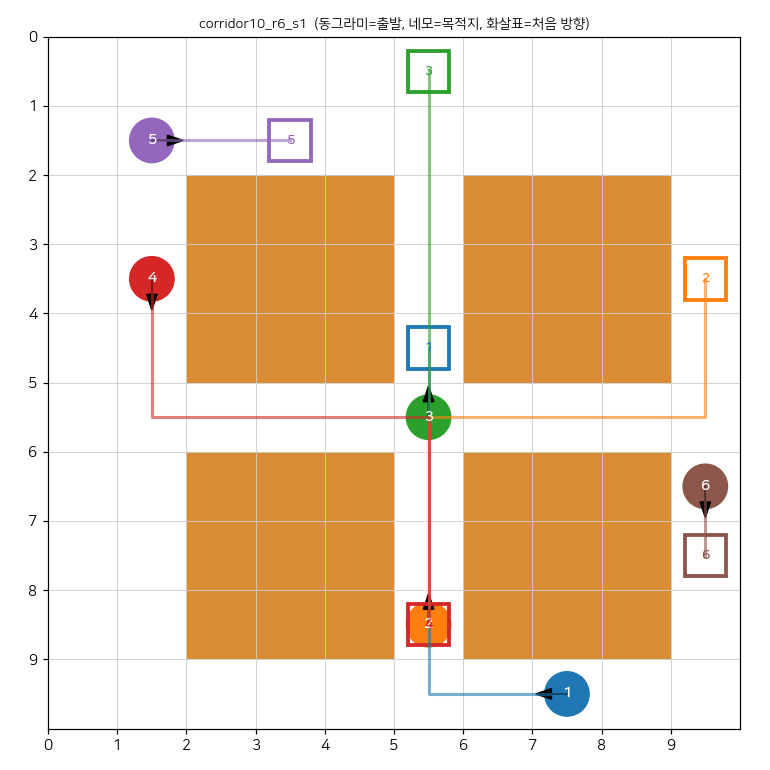
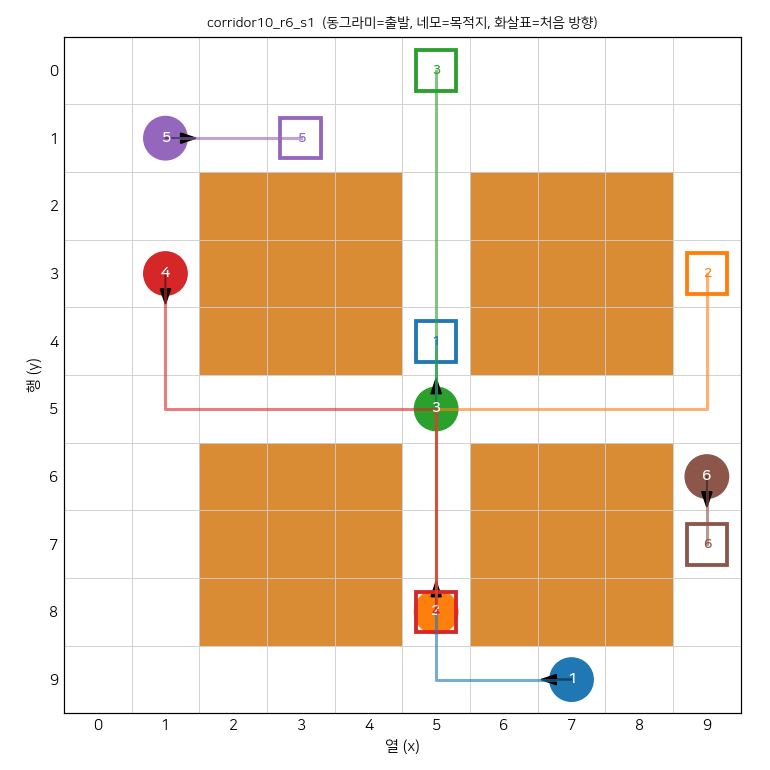
칸 위치 표기를 행·열로 통일(사용자 요청): CLAUDE.md 규칙, 31장·README "N번 줄" → "N행", 점검 출력 "9행 7열", 그림 축에 행·열·칸 가운데 번호

diff --git a/ros2/mapf_gazebo/mapf_gazebo/draw_scenario.py b/ros2/mapf_gazebo/mapf_gazebo/draw_scenario.py
@@ -1,4 +1,4 @@
-"""시나리오를 2D GUI와 같은 방향(0번 줄이 위)으로 그린다 — Gazebo 화면(위에서 본 모습)과 눈으로 맞대 보는 용도 (7-1).
+"""시나리오를 2D GUI와 같은 방향(0행이 위)으로 그린다 — Gazebo 화면(위에서 본 모습)과 눈으로 맞대 보는 용도 (7-1).
 
     ros2 run mapf_gazebo draw_scenario corridor10_r6_s1 --out corridor10_r6_s1.png
 
@@ -39,10 +39,13 @@ def draw(sc, out):
         ax.add_patch(Rectangle((gx - 0.3, gy - 0.3), 0.6, 0.6, fill=False, edgecolor=c, lw=2.5))
         ax.text(gx, gy, str(r['id'] + 1), ha='center', va='center', color=c, fontsize=9, weight='bold')
     ax.set_xlim(0, w)
-    ax.set_ylim(h, 0)  # 0번 줄이 위 (2D GUI와 같음)
+    ax.set_ylim(h, 0)  # 0행이 위 (2D GUI와 같음)
     ax.set_aspect('equal')
-    ax.set_xticks(range(w))
-    ax.set_yticks(range(h))
+    ax.set_xticks([i + 0.5 for i in range(w)], [str(i) for i in range(w)])  # 번호는 칸 가운데에
+    ax.set_yticks([i + 0.5 for i in range(h)], [str(i) for i in range(h)])
+    ax.tick_params(length=0)
+    ax.set_xlabel('열 (x)')
+    ax.set_ylabel('행 (y)')
     ax.set_title(f"{sc['name']}  (동그라미=출발, 네모=목적지, 화살표=처음 방향)", fontsize=9)
     fig.tight_layout()
     fig.savefig(out, dpi=110)

diff --git a/ros2/mapf_gazebo/mapf_gazebo/grid_to_world.py b/ros2/mapf_gazebo/mapf_gazebo/grid_to_world.py
@@ -35,7 +35,7 @@ def world_xml(scenario, flip_y=True):
                     for i, b in enumerate(wall_boxes(len(rows[0]), len(rows), cell)))
     shelf_model = (f'<model name="shelves"><static>true</static><link name="link">{shelves}</link></model>'
                    if shelves else '')
-    # 화면(gzclient)을 처음부터 "위에서 내려다보고, 화면 위 = +y(북), 오른쪽 = +x"로 연다 → 2D 그림(0번 줄이 위)과 같은 모양.
+    # 화면(gzclient)을 처음부터 "위에서 내려다보고, 화면 위 = +y(북), 오른쪽 = +x"로 연다 → 2D 그림(0행이 위)과 같은 모양.
     # 이게 없으면 Gazebo 기본 카메라 방향이라 지도가 90° 돌아가 보인다(2026-11-26 사용자 확인).
     # 자세: yaw 90°(카메라 앞 = +y) 뒤 pitch 90° 가까이(아래를 봄) → 화면 위 = +y. pitch를 정확히 90°로 두면 orbit 조작이 튀어서 살짝 덜 숙인다.
     wm, hm = len(rows[0]) * cell, len(rows) * cell

diff --git a/ros2/mapf_gazebo/mapf_gazebo/check_7_1.py b/ros2/mapf_gazebo/mapf_gazebo/check_7_1.py
@@ -153,7 +153,7 @@ def main():
         res['robots'][n] = {'start_cell': r['start'], 'pos_err_m': dpos, 'yaw_err_deg': dyaw, 'P_ok': p_ok,
                             'lidar_agree': rate, 'lidar_rays': used, 'lidar_median_err_m': med, 'lidar_bad_examples': bad,
                             'L_ok': l_ok}
-        print(f"  {n} 칸{tuple(r['start'])}: [{'통과' if p_ok else '실패'}] P 위치 차이 {dpos * 100:.1f} cm, 방향 {dyaw:.1f}°"
+        print(f"  {n} 출발 {r['start'][1]}행 {r['start'][0]}열: [{'통과' if p_ok else '실패'}] P 위치 차이 {dpos * 100:.1f} cm, 방향 {dyaw:.1f}°"
               f"   [{'통과' if l_ok else '실패'}] L LiDAR {rate * 100:.1f}% 일치({used}개 광선, 차이 중앙값 "
               f"{(med or 0) * 100:.1f} cm){'' if l_ok else f', 안 맞은 예(각도°, 실제, 격자) {bad}'}")
 

diff --git a/CLAUDE.md b/CLAUDE.md
@@ -20,6 +20,8 @@
   `max_timestep` 256(128×128은 512). 동점 규칙을 바꿔도 결론 유지(21장 21.8).
 - "스스로 푼 수" = 안전망(①②) 없이 Tier 0~2에서 푼 수. 작업 시간(service time): 도착 후 작업 중인 로봇은 절대 안 움직임.
 - 예전 문서의 "PIEF"는 잘못된 이름 → Švancara 2019의 **OID**.
+- **칸 위치는 "행·열"로 말한다(사용자 요청 2026-11-27)**: 행 = 가로줄, 위에서 아래로 0행부터(코드의 `y`) / 열 = 세로줄, 왼쪽부터 0열(코드의 `x`).
+  말할 때는 "9행 7열"처럼 **행을 먼저**. 코드·JSON의 좌표는 `[x, y]` = **[열, 행]** 순서라 거꾸로이므로, 숫자 쌍만 쓰지 말고 항상 "행·열"을 붙인다.
 
 ## 일하는 방식 (사용자 요청)
 - **한국어**, 쉽고 자세하게. 채팅은 짧게, 자세한 설명·결과는 `docs/`에 md로 남긴다(쉬운 요약 + 자세한 장).

diff --git a/ros2/README.md b/ros2/README.md
@@ -33,7 +33,7 @@ ros2 run turtlebot3_teleop teleop_keyboard --ros-args -r __ns:=/robot_1
 ros2 launch mapf_gazebo scenario.launch.py scenario:=corridor10_r6_s1 gui:=true
 # 터미널 2: 자동 점검 (출발 위치, LiDAR 실제 거리 ↔ 격자 계산 거리, RTF)
 ros2 run mapf_gazebo check_7_1 --scenario corridor10_r6_s1
-# 2D 그림(0번 줄이 위) — gui:=true 화면(처음부터 위에서 내려다봄, 위 = 북 = +y)과 같은 모양이어야 함
+# 2D 그림(0행   이 위) — gui:=true 화면(처음부터 위에서 내려다봄, 위 = 북 = +y)과 같은 모양이어야 함
 ros2 run mapf_gazebo draw_scenario corridor10_r6_s1 --out corridor.png
 # 새 시나리오 만들기 (먼저 저장소 최상위에서 코어 빌드 필요: mapf_py)
 ros2 run mapf_gazebo make_scenario --map corridor --size 10 --robots 6 --seed 2 --out my.json
